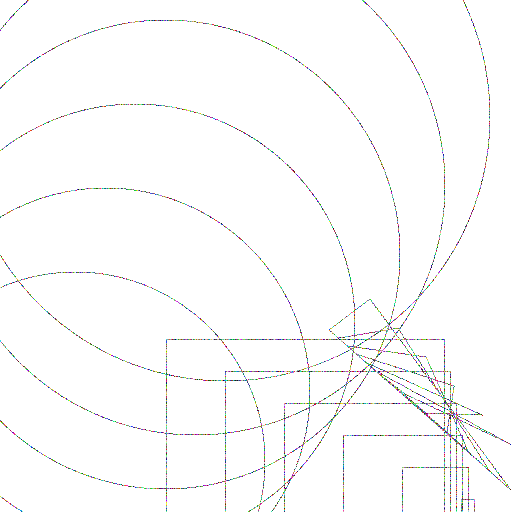
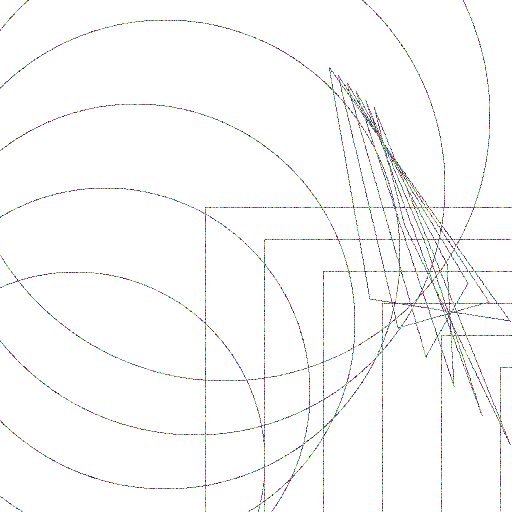
pixel

diff --git a/src/extra/PixelPartyRunner.java b/src/extra/PixelPartyRunner.java
@@ -15,10 +15,10 @@ public static void main(String[] args) {
 		dos-= 69;
 		tres+= 15;
 	}
-	int g = 13;
-	int t = 499;
-	dos= 461;
-	uno= 75;
+	int g = 50;
+	int t = 367;
+	dos=500;
+	uno= 175;
 	for(int i =0; i<6; i++) {
 		lame.drawRectangle(dos, t, g, uno);
 		dos-=59;
@@ -29,9 +29,9 @@ public static void main(String[] args) {
 	int yay = 370;
 	int nay = 299;
 	int boo = 510;
-	int woo = 489;
+	int woo = 321;
 	int hee = 329;
-	int haw = 330;
+	int haw = 67;
 	for(int i=0;i<6;i++) {
 		lame.drawTriangle(yay, nay, boo, woo, hee, haw);
 		yay+=28;
